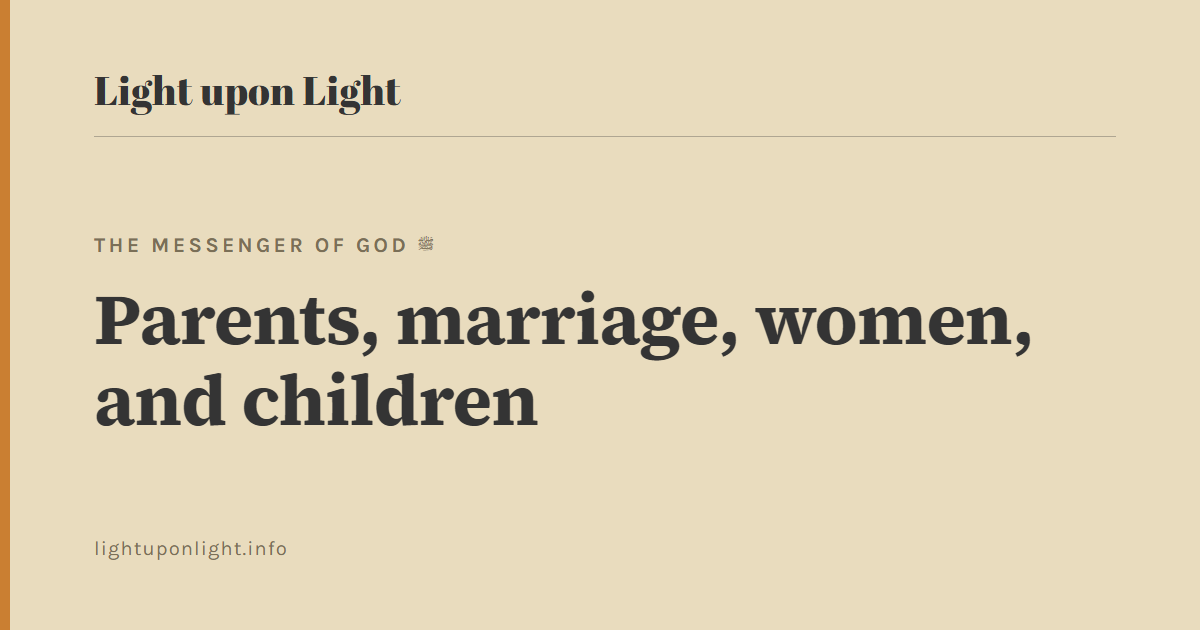
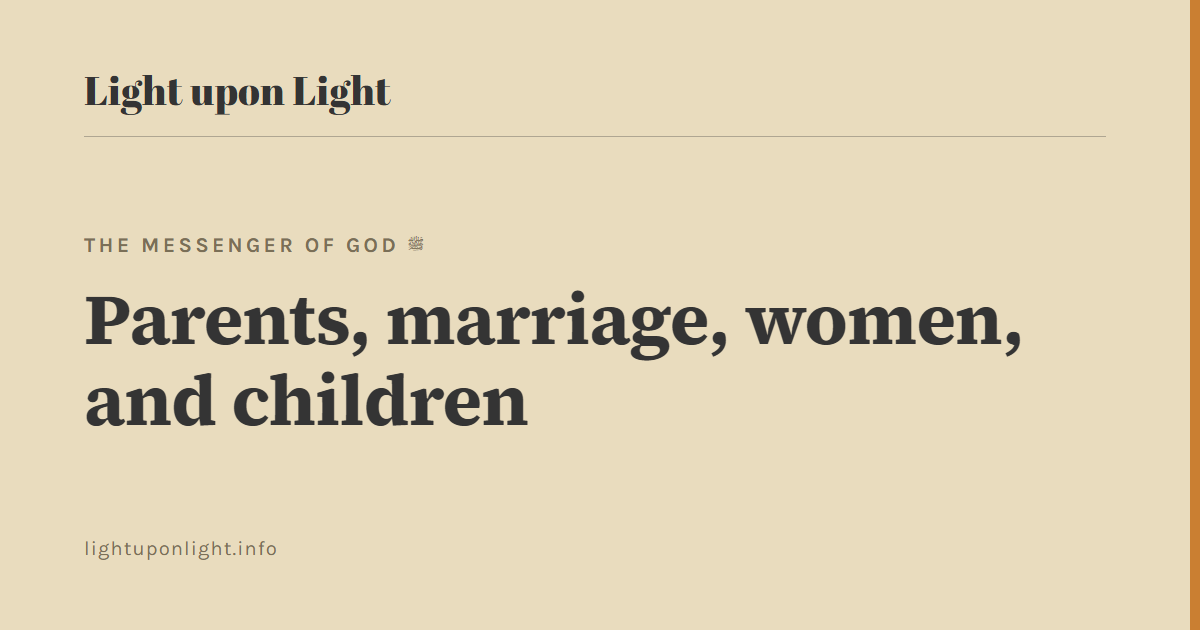
og cards: move accent bar to the right edge
Off the text side, so it reads as an accent in the empty margin rather
than a rule competing with the left-aligned content.

diff --git a/_notes/scripts/og/og.html b/_notes/scripts/og/og.html
@@ -43,7 +43,7 @@
     display: flex;
     flex-direction: column;
     overflow: hidden;
-    border-left: 10px solid #ca7f32; /* dirt skin base09 (warm ochre) */
+    border-right: 10px solid #ca7f32; /* dirt skin base09 (warm ochre) — accent, kept off the text side */
   }
 
   .wordmark {
